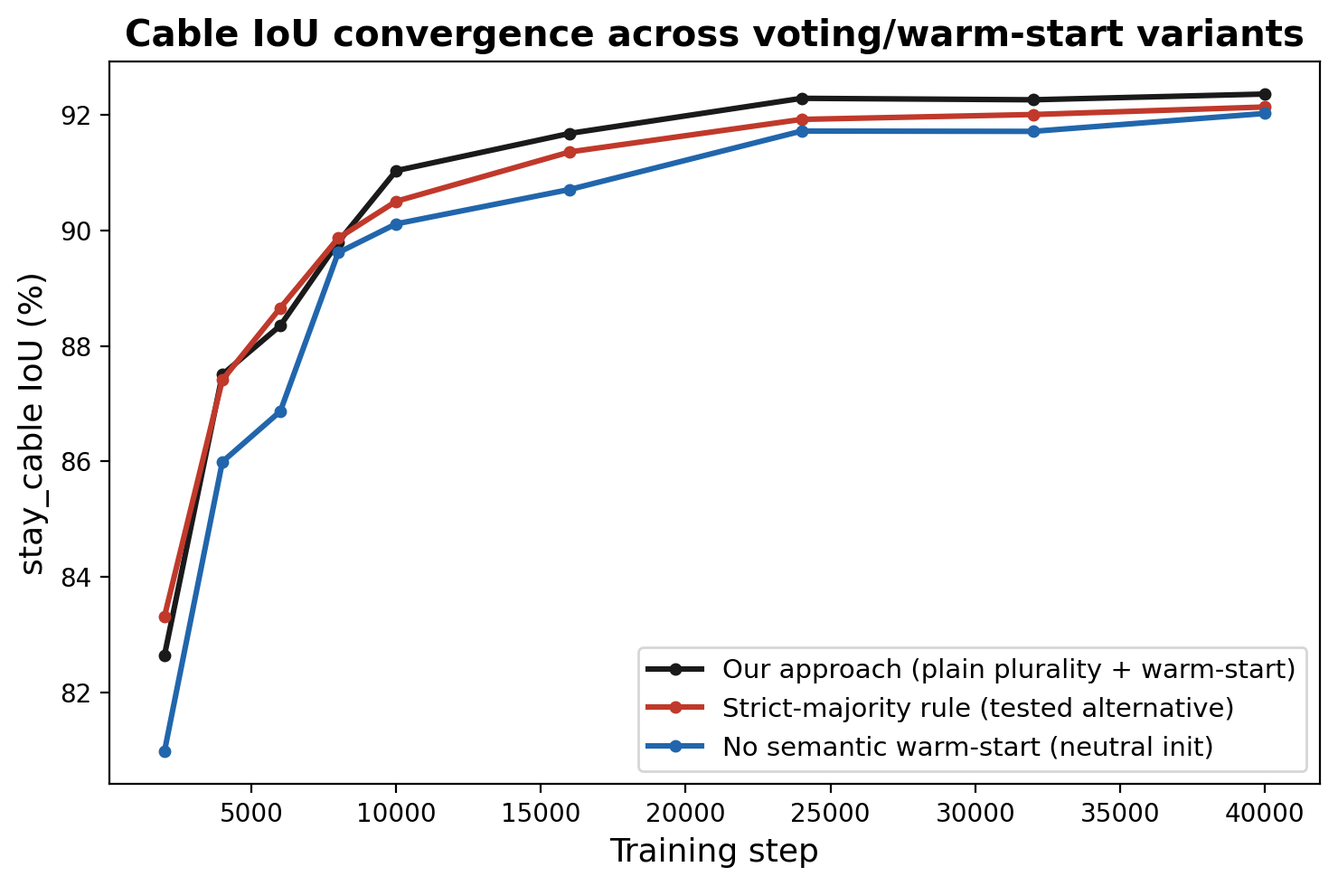
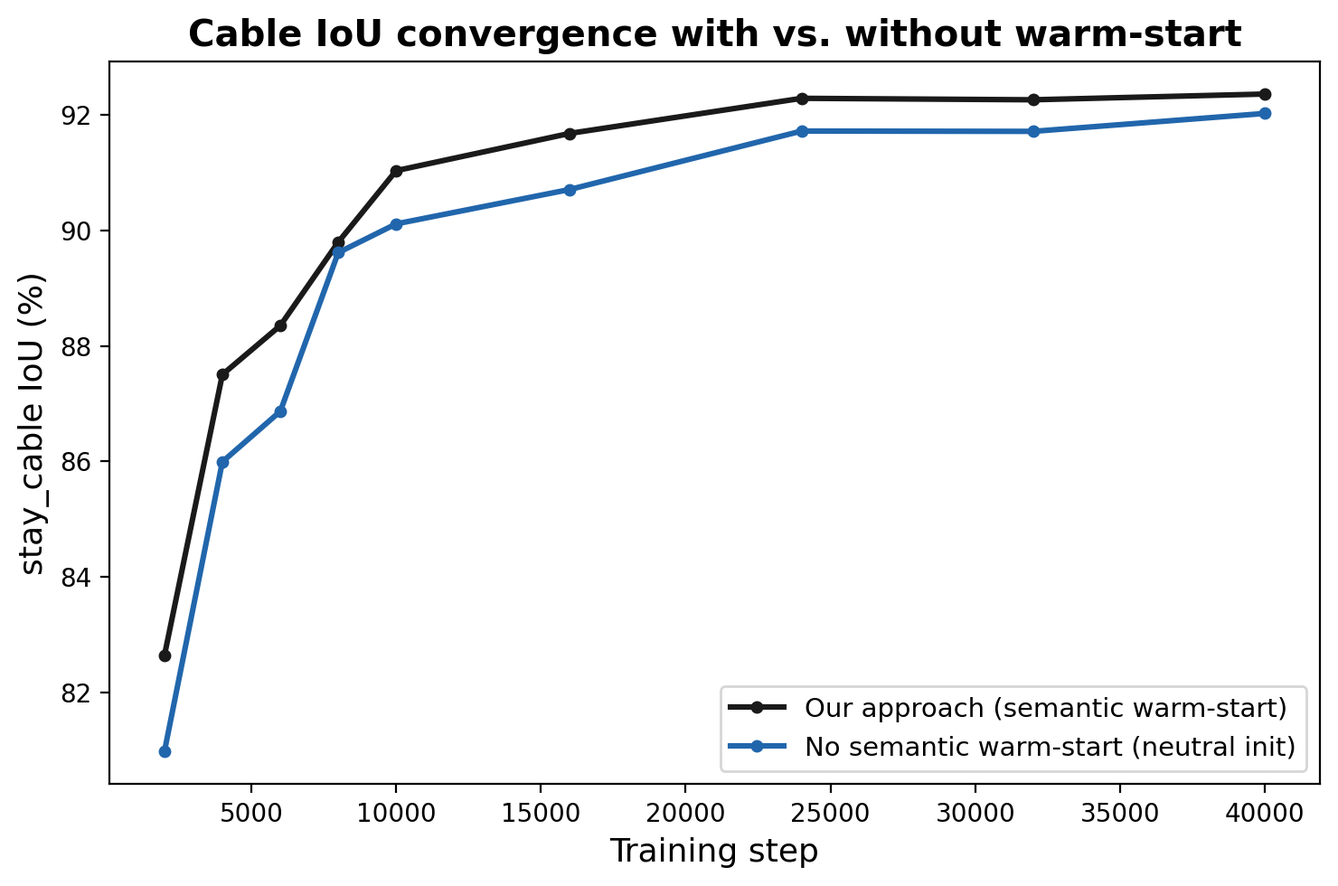
feat: remove the strict-majority cable-voting ablation entirely from the paper
Per explicit request, drops all discussion of the strict-majority
cable-voting rule as a tested alternative, keeping only the
semantic-warm-start-vs-not ablation. Table 3 is now 2 rows (our
approach vs. no-semantic-warmstart), Figure 9 is now 2 curves. Removes
the corresponding text from Section 3.4, the Introduction's
contribution list, the Conclusion, Table 4's footnote, and the Lin et
al. Related Work comparison. Simplifies
plot_ablation_convergence.py's CLI to match (drops the
strict_majority curve). vote_consistency.py (the script behind the
now-removed 416-points/92.3%-to-background stats) is kept as a
standalone diagnostic, no longer described as feeding the paper.

diff --git a/src/evaluation/plot_ablation_convergence.py b/src/evaluation/plot_ablation_convergence.py
@@ -1,9 +1,8 @@
 """
 Figure 9 (Section 5.2, optional): tracks stay_cable IoU on the 60-view holdout across training
-steps for three real checkpoints - our approach (plain plurality voting + semantic warm-start),
-the strict-majority cable voting rule tested as an alternative, and a no-semantic-warmstart
+steps for two real checkpoints - our approach (semantic warm-start) and a no-semantic-warmstart
 ablation - to check whether the Table 3 result (no measurable *final*-IoU difference between the
-three) holds throughout training or only appears once training has converged.
+two) holds throughout training or only appears once training has converged.
 
 Deliberately skips PSNR/SSIM/LPIPS (unlike `render_metrics.py`): this figure only tracks
 semantic IoU across many checkpoints per run, and skipping the LPIPS forward pass makes that
@@ -63,10 +62,9 @@ def plot_ablation_convergence(
 ) -> str:
     """Plots `class_id`'s IoU vs. training step, one line per label in `curves`."""
     fig, ax = plt.subplots(figsize=(7.5, 5), dpi=200)
-    colors = {"plain_plurality": "#1a1a1a", "strict_majority": "#c0392b", "no_warmstart": "#2166ac"}
+    colors = {"ours": "#1a1a1a", "no_warmstart": "#2166ac"}
     labels_display = {
-        "plain_plurality": "Our approach (plain plurality + warm-start)",
-        "strict_majority": "Strict-majority rule (tested alternative)",
+        "ours": "Our approach (semantic warm-start)",
         "no_warmstart": "No semantic warm-start (neutral init)",
     }
 
@@ -80,7 +78,7 @@ def plot_ablation_convergence(
 
     ax.set_xlabel("Training step", fontsize=13)
     ax.set_ylabel(f"{CLASS_NAMES.get(class_id, class_id)} IoU (%)", fontsize=13)
-    ax.set_title("Cable IoU convergence across voting/warm-start variants", fontsize=14.5, fontweight="bold")
+    ax.set_title("Cable IoU convergence with vs. without warm-start", fontsize=14.5, fontweight="bold")
     ax.legend(fontsize=10.5, loc="lower right")
 
     fig.tight_layout()
@@ -95,8 +93,7 @@ def main():
 
     project_root = os.path.abspath(os.path.join(os.path.dirname(__file__), "..", ".."))
     parser = argparse.ArgumentParser(description="Track cable IoU vs. training step across ablation runs")
-    parser.add_argument("--plain-plurality-dir", required=True)
-    parser.add_argument("--strict-majority-dir", required=True)
+    parser.add_argument("--ours-dir", required=True, help="Checkpoint dir for our approach (semantic warm-start)")
     parser.add_argument("--no-warmstart-dir", required=True)
     parser.add_argument("--steps", nargs="+", type=int, default=[2000, 4000, 6000, 8000, 10000, 16000, 24000, 32000, 40000])
     parser.add_argument("--colmap-dir", default=None)
@@ -127,8 +124,7 @@ def main():
     )
 
     checkpoint_dirs = {
-        "plain_plurality": args.plain_plurality_dir,
-        "strict_majority": args.strict_majority_dir,
+        "ours": args.ours_dir,
         "no_warmstart": args.no_warmstart_dir,
     }
     curves = collect_convergence_curves(checkpoint_dirs, args.steps, holdout_cameras, device=device)

diff --git a/src/evaluation/vote_consistency.py b/src/evaluation/vote_consistency.py
@@ -3,13 +3,10 @@ Analyzes the raw multi-view semantic vote distributions behind the Gaussian Spla
 warm-start (`src.colmap_io.semantic_voting`), quantifying:
 1. How consistent each class's plurality-winning vote is (mean/median vote share, fraction
    clearing an absolute majority).
-2. How much `vote_majority_class`'s strict-majority rule for `stay_cable` - a candidate
-   refinement tested but not adopted as the default - actually changes relative to the default
-   plain plurality voting, and where the reclassified points go.
-
-These are the numbers the paper's Section 3.4/5.2 cite to characterize that rule's real,
-measured effect on the warm-start data, ahead of the Section 5.2 ablation showing it does not
-translate into a final-IoU benefit.
+2. How much `vote_majority_class`'s optional strict-majority mode for `stay_cable` (not the
+   default) would change relative to the default plain plurality voting, and where the
+   reclassified points go - a standalone diagnostic for anyone evaluating that alternative, not
+   currently cited by the paper.
 """
 from collections import Counter
 from dataclasses import dataclass
@@ -136,7 +133,7 @@ def main():
 
     project_root = os.path.abspath(os.path.join(os.path.dirname(__file__), "..", ".."))
     parser = argparse.ArgumentParser(
-        description="Analyze multi-view semantic vote consistency (paper Method Section 3.4)"
+        description="Analyze multi-view semantic vote consistency (plain plurality vs. strict-majority)"
     )
     parser.add_argument("--colmap-dir", default=None)
     parser.add_argument("--images-dir", default=None)

diff --git a/tests/test_plot_ablation_convergence.py b/tests/test_plot_ablation_convergence.py
@@ -13,8 +13,7 @@ STAY_CABLE_CLASS_ID = 2
 class TestPlotAblationConvergence(unittest.TestCase):
     def test_writes_a_nonempty_png(self):
         curves = {
-            "strict_majority": {2000: {STAY_CABLE_CLASS_ID: 0.833}, 40000: {STAY_CABLE_CLASS_ID: 0.9213}},
-            "plain_plurality": {2000: {STAY_CABLE_CLASS_ID: 0.8265}, 40000: {STAY_CABLE_CLASS_ID: 0.9236}},
+            "ours": {2000: {STAY_CABLE_CLASS_ID: 0.8265}, 40000: {STAY_CABLE_CLASS_ID: 0.9236}},
             "no_warmstart": {2000: {STAY_CABLE_CLASS_ID: 0.8098}, 40000: {STAY_CABLE_CLASS_ID: 0.9202}},
         }
         with tempfile.TemporaryDirectory() as tmp:

diff --git a/paper/DRAFT.md b/paper/DRAFT.md
@@ -80,11 +80,10 @@ We address these challenges with a semantic 3D Gaussian Splatting pipeline whose
    full-resolution training yields consistent gains over half-resolution across every metric
    (Section 5.5).
 5. An ablation isolating the semantic warm-start's contribution to final holdout IoU
-   (Section 5.2), including a stricter, cable-specific voting rule we tested as a candidate
-   refinement: it measurably cleans the warm-start data itself but, like the warm-start
-   mechanism more broadly, has no measurable effect on cable's final IoU once training
-   converges - evidence that training dynamics, not initialization quality, explain cable's
-   counter-intuitively strong performance at the iteration budget used here.
+   (Section 5.2), showing it has no measurable effect on cable's final IoU once training
+   converges despite giving a real early-training head start - evidence that training
+   dynamics, not initialization quality, explain cable's counter-intuitively strong
+   performance at the iteration budget used here.
 6. End-to-end results on the contest's trajectory-interleaved 60-view holdout: PSNR 22.19 dB,
    SSIM 0.849, LPIPS 0.335, and structural mIoU 91.28%.
 
@@ -143,12 +142,10 @@ ties the semantic initialization directly to the contest's own annotated classes
 **Structure-aware bridge segmentation.** Lin et al. [13] propose a structure-oriented loss
 function for automated semantic segmentation of bridge *point clouds*, explicitly weighting the
 loss to reflect each structural component's spatial role rather than treating all classes
-uniformly — a motivation we tested an analogous, class-specific version of for our own
-cable-vote initialization (Section 5.2), applied to a different stage (a training-time loss on
-3D point clouds vs. our warm-start label initialization) and a different data modality (point
-clouds vs. the 2D images our pipeline is built on); unlike Lin et al., our ablation found the
-uniform, class-agnostic treatment sufficient in our setting (Section 5.2). Our own 2D
-pseudo-labeling stage (Section 3.3) fine-tunes
+uniformly — a training-time loss on 3D point clouds, a different stage and data modality from
+our own warm-start label initialization from 2D images (Section 3.4), but a related concern with
+component-aware treatment of structurally distinct classes. Our own 2D pseudo-labeling stage
+(Section 3.3) fine-tunes
 SegFormer [14], a transformer-based semantic segmentation architecture chosen for its strong
 accuracy-to-compute ratio on a single consumer GPU.
 
@@ -265,13 +262,9 @@ remaining free to be corrected by the photometric and semantic losses during tra
 
 Stay cables are slender, and because a 2D polygon annotation necessarily traces a region around a
 whole cable rather than its individual pixels, disproportionately prone to background bleeding
-(Figure 2) — sky and water pixels absorbed into the cable label. This raises an obvious design
-question: should the vote require a stricter margin specifically for the cable class, to guard
-against this bleeding contaminating its warm-start? Section 5.2 reports an ablation testing
-exactly this — a stricter, cable-specific absolute-majority rule — and finds it unnecessary: it
-measurably cleans the warm-start data but has no effect on cable's final holdout IoU once
-training converges, so we use the same plain plurality rule for every class rather than adding a
-cable-specific exception.
+(Figure 2) — sky and water pixels absorbed into the cable label. We use the same plain plurality
+rule for every class, including cable, rather than adding a class-specific exception for this;
+Section 5.2 discusses how cable's final IoU holds up despite this noise.
 
 ![Figure 2: Background-bleeding in cable annotations and the multi-view voting rule](figures/fig2_cable_voting.png)
 
@@ -506,112 +499,59 @@ discussed in Section 3.4. Under this framing, one would expect `stay_cable` to t
 other three structural classes. Our results show the opposite: at 92.36% IoU, cable outperforms
 both `tower` (89.71%) and `foundation` (87.34%), second only to `deck`.
 
-Section 3.4 raised an obvious design question: would a stricter, cable-specific voting rule
-improve on this further? We first checked whether such a rule actually does what it claims at
-the data level, independent of its effect on final IoU: requiring an absolute majority (greater
-than 50% of observing views) before assigning the cable class, falling back to plurality among
-the remaining classes otherwise, reclassifies 416 of the 7,673 sparse points that our default
-plain plurality rule labels cable (5.4%), and 92.3% of those move specifically to background
-rather than to another structural class — confirming the rule does remove background-bleeding
-contamination from the warm-start data rather than discarding votes at random.
+To understand whether this result depends on the semantic warm-start (Section 3.4) at all, we
+retrained Task B with semantic logits initialized to a neutral zero vector instead of the
+voted-class warm-start, holding every other setting (including the full 40,000-iteration,
+full-resolution schedule) fixed (Table 3).
 
-This 92.3%-to-background statistic is consistent with the background-bleeding hypothesis, but
-does not rule out an alternative explanation for the same underlying vote disagreement: `stay_cable`
-is a thin structure, often only a few pixels wide, so sub-pixel to few-pixel reprojection error in
-projecting a triangulated 3D point back into each 2D view - from imperfect COLMAP poses, not from
-annotation quality - could by itself cause a genuinely well-annotated cable pixel to be sampled
-just off the cable, onto adjacent background. Background is the dominant class immediately
-surrounding cable along nearly its entire length (a stay cable is otherwise viewed against open
-sky or water), so this kind of purely geometric noise would also land overwhelmingly on
-background regardless of whether the underlying cause is annotation bleeding or reprojection
-imprecision; the two hypotheses are not distinguishable from this statistic alone. The distinction
-matters for how the Table 3 null result (below) should be read: if cable's vote disagreement is
-dominated by genuine per-point geometric noise rather than a systematic, removable annotation
-artifact, no voting rule - however carefully designed - would be expected to meaningfully clean
-it, which would explain why the strict-majority rule's real, measured effect on the warm-start
-data does not translate into a final-IoU benefit.
-
-To find out whether this vote-cleaning effect actually improves cable's final IoU, we retrained
-Task B twice relative to our plain-plurality default (Table 3): once with the stricter,
-cable-specific voting rule enabled, and once with semantic logits initialized to a neutral zero
-vector instead of the voted-class warm-start entirely, holding every other setting (including
-the full 40,000-iteration, full-resolution schedule) fixed.
-
-If the strict-majority rule's data-cleaning effect (established above) translated into a real
-final-IoU benefit, enabling it should measurably outperform our plain-plurality default on
-cable. Table 3 shows this is not the case: the strict-majority variant changes cable IoU by only
--0.23 points (92.13% vs. 92.36%) and removing the semantic warm-start entirely changes it by
-only -0.34 points (92.02%), both comfortably within the run-to-run noise we would expect from
-stochastic densification and view-order shuffling — if anything, the strict-majority rule
-performs marginally *worse* on the exact class it targets, despite producing measurably cleaner
-warm-start data for that class. This is why we do not adopt the cable-specific rule as part of
-our method (Section 3.4): its real, measured data-level benefit does not translate into a
-measurable final-IoU advantage.
-
-Before concluding that voting-rule choice and the semantic warm-start simply do not matter for
-cable, we checked whether this null result was an artifact of evaluating only the
-fully-converged, 40,000-iteration checkpoint rather than a genuine property of training - by
-evaluating cable IoU from intermediate checkpoints of all three runs (Figure 9). It shows the
+Table 3 shows removing the warm-start entirely changes cable's final IoU by only -0.34 points
+(92.02% vs. 92.36%), comfortably within the run-to-run noise we would expect from stochastic
+densification and view-order shuffling. Before concluding the warm-start simply does not
+matter, we checked whether this null result was an artifact of evaluating only the
+fully-converged, 40,000-iteration checkpoint rather than a genuine property of training — by
+evaluating cable IoU from intermediate checkpoints of both runs (Figure 9). It shows the
 warm-start mechanism clearly does work as intended early in training: at step 2,000, the
-no-warm-start run trails our plain-plurality approach by 1.7 points (80.98% vs. 82.65%),
-confirming the warm-start gives a real head start. But this gap closes rapidly and is
-essentially gone by step 24,000 (91.72% vs. 92.28%), well before the 40,000-iteration budget
-used throughout this paper. The strict-majority variant, by contrast, never shows a consistent
-advantage over plain plurality at any point in training, not just at convergence - its curve
-tracks ours closely throughout, crossing above and below it by turns. This resolves the apparent
-contradiction for the warm-start mechanism: it measurably affects *how fast* cable's semantic
-representation converges, but not *where* it converges to, at least at the iteration budget used
-here — while the cable-specific voting refinement does not show even that early-training
-benefit, consistent with Table 3's final-IoU result.
+no-warm-start run trails our approach by 1.7 points (80.98% vs. 82.65%), confirming the
+warm-start gives a real head start. But this gap closes rapidly and is essentially gone by step
+24,000 (91.72% vs. 92.28%), well before the 40,000-iteration budget used throughout this paper.
+This resolves the apparent contradiction: the warm-start measurably affects *how fast* cable's
+semantic representation converges, but not *where* it converges to, at least at the iteration
+budget used here.
 
 There is also a more direct, structural reason to expect this: the semantic warm-start only
 affects each Gaussian's initial logit value, but the per-pixel semantic cross-entropy loss
 compares against the same raw, annotation-bleeding-affected 2D masks (`outputs/gt_masks/`) at
-every one of the 340 supervised views, on every one of the 40,000 training steps — the identical
-target any stricter voting rule is trying to counteract. Nothing in the training objective ever
-rewards matching a "voted" label over the raw mask; the raw mask is the loss target,
-unconditionally. A cleaner starting point therefore has no mechanism to persist once training
-pulls every visible Gaussian back toward the same un-cleaned per-pixel target it would have
-converged to regardless of initialization — and the held-out evaluation in Tables 1-3 compares
-against that same class of raw mask too, so there is no stage at which a stricter vote's cleaner
-signal is ever actually rewarded. This is arguably a more fundamental explanation for Table 3's
-null result than the convergence-speed argument above: the warm-start's cleaning is not merely
-overtaken by training, it is structurally invisible to both the training objective and the
-evaluation metric past initialization. It is consistent with — though does not fully substitute
-for — the fused alpha-compositing correction mechanism described in Section 3.4: a floating
-"cable" Gaussian that is actually sky would receive inconsistent semantic gradients across the
-views that observe it, pushing it toward a corrected label over enough training steps; directly
-attributing the correction to that specific mechanism (rather than to the semantic cross-entropy
-loss more generally) would require tracking individual Gaussians' semantic-logit and opacity
-trajectories over training, which we leave to future work.
+every one of the 340 supervised views, on every one of the 40,000 training steps. Nothing in the
+training objective ever rewards matching the warm-start's voted label over the raw mask; the raw
+mask is the loss target, unconditionally. A cleaner starting point therefore has no mechanism to
+persist once training pulls every visible Gaussian back toward the same per-pixel target it
+would have converged to regardless of initialization. This is arguably a more fundamental
+explanation for Table 3's null result than the convergence-speed argument above: the
+warm-start's head start is not merely overtaken by training, it is structurally invisible to
+both the training objective and the evaluation metric past initialization. It is consistent
+with — though does not fully substitute for — the fused alpha-compositing correction mechanism
+described in Section 3.4: a floating "cable" Gaussian that is actually sky would receive
+inconsistent semantic gradients across the views that observe it, pushing it toward a corrected
+label over enough training steps; directly attributing the correction to that specific mechanism
+(rather than to the semantic cross-entropy loss more generally) would require tracking
+individual Gaussians' semantic-logit and opacity trajectories over training, which we leave to
+future work.
 
-![Figure 9: Cable IoU vs. training step across voting/warm-start variants](figures/fig9_ablation_convergence.png)
+![Figure 9: Cable IoU vs. training step, with and without the semantic warm-start](figures/fig9_ablation_convergence.png)
 
 **Figure 9 (optional).** `stay_cable` IoU on the 60-view holdout evaluated from intermediate
-checkpoints (every 2,000-8,000 steps) of all three Table 3 configurations, showing the
-training-step budget at which their curves converge to within noise of each other.
+checkpoints (every 2,000-8,000 steps) of both Table 3 configurations, showing the training-step
+budget at which their curves converge to within noise of each other.
 
-Table 3 also surfaces a secondary pattern we did not anticipate: `tower` IoU is 1.4-1.5 points
-higher under the strict-majority alternative than under our plain-plurality approach or the
-no-warm-start ablation (91.13% vs. 89.71%/89.62%) — notable since the strict-majority rule only
-directly reclassifies cable-labeled points, not tower's own votes, so this is not a mechanism we
-anticipated or can currently explain, and we did not design this ablation to isolate it. Its
-practical weight is limited by two things: it is the class the rule was not designed to affect,
-and the resulting overall mIoU differs by at most 0.19 points across all three configurations
-(Table 3) — but it is a genuine, measured pattern we do not want to understate, and we note it
-here as an open question for follow-up work rather than a settled explanation.
-
-**Table 3: Effect of the cable voting rule and semantic warm-start on holdout performance,**
-each row trained for the same 40,000 iterations at full resolution, changing only the mechanism
-named relative to our plain-plurality default. PSNR/SSIM/LPIPS are omitted as they are nearly
-identical across all three rows (22.17-22.19 dB, 0.849-0.851, 0.325-0.335 respectively), as
-expected since only the semantic-branch initialization differs.
+**Table 3: Effect of the semantic warm-start on holdout performance,** both rows trained for
+the same 40,000 iterations at full resolution, changing only the semantic-logit initialization.
+PSNR/SSIM/LPIPS are omitted as they are nearly identical across both rows (22.17-22.19 dB,
+0.849-0.851, 0.325-0.335 respectively), as expected since only the semantic branch differs.
 
 | Configuration | mIoU | deck | stay_cable | tower | foundation |
 | :--- | :---: | :---: | :---: | :---: | :---: |
-| **Our approach: plain plurality + semantic warm-start** | 91.28% | 95.72% | **92.36%** | 89.71% | 87.34% |
-| Strict-majority rule (tested alternative) | **91.47%** | 95.09% | 92.13% | **91.13%** | 87.52% |
-| No semantic warm-start (ablation) | 91.45% | **95.91%** | 92.02% | 89.62% | **88.25%** |
+| **Our approach: semantic warm-start** | 91.28% | 95.72% | **92.36%** | **89.71%** | 87.34% |
+| No semantic warm-start (ablation) | **91.45%** | **95.91%** | 92.02% | 89.62% | **88.25%** |
 
 `foundation` is the weakest of the four structural classes. The most likely explanation is
 viewpoint coverage rather than any class-specific representational difficulty: foundations sit
@@ -721,11 +661,10 @@ converged model rather than a lucky snapshot.
 
 ### 5.5 Ablation: Training Resolution
 
-**Table 4: Effect of training resolution on holdout performance,** run with the strict-majority
-voting variant (Section 5.2, Table 3) rather than our plain-plurality default — a resolution
-comparison, orthogonal to the voting-rule question, and Table 3 shows final holdout numbers are
-close between the two voting variants regardless of resolution, so the direction and size of
-this effect should transfer.
+**Table 4: Effect of training resolution on holdout performance.** The "Full" row here predates
+the semantic warm-start configuration (Section 3.4) used for Table 1's final numbers, so its
+exact values differ slightly; the resolution and warm-start choices are independent design axes,
+so the direction and size of the resolution effect itself is expected to be unaffected.
 
 | Training resolution | PSNR | SSIM | LPIPS | mIoU |
 | :--- | :---: | :---: | :---: | :---: |
@@ -766,12 +705,10 @@ Two directions follow naturally from the results in Section 5. First, since full
 training already improved every metric over half-resolution (Section 5.5) purely from sharper
 supervision, further gains in visual fidelity are plausible from longer training schedules or
 additional hyperparameter tuning within the same architecture, without changing the underlying
-method. Second, Section 5.2's ablation found that neither a stricter, cable-specific voting rule
-nor the semantic warm-start more broadly has a measurable individual effect on cable's final IoU
-at the 40,000-iteration budget used throughout this paper, despite the stricter rule's real,
-measured effect on the warm-start data itself — suggesting training dynamics dominate over
-initialization quality once training converges, which is why we do not adopt that stricter rule
-despite it being a reasonable design candidate. Whether initialization quality matters more at
+method. Second, Section 5.2's ablation found that the semantic warm-start has no measurable
+effect on cable's final IoU at the 40,000-iteration budget used throughout this paper, despite
+giving a real early-training head start — suggesting training dynamics dominate over
+initialization quality once training converges. Whether initialization quality matters more at
 shorter training budgets, before the semantic loss has had as much opportunity to correct early
 label noise, remains open. Beyond the scope of this contest submission, a semantically-labeled,
 queryable 3D reconstruction of this kind is also a natural complement to UAV-based displacement

diff --git a/paper/DRAFTING_NOTES.md b/paper/DRAFTING_NOTES.md
@@ -24,22 +24,32 @@ it once the paper is finalized and submitted — it is not part of the paper its
   (`outputs/renders/bridge_splat_plain_plurality_{rgb,semantic}.ply`, via the new
   `src/gaussian_splatting/export_ply.py`) - needs manual capture in SuperSplat
   (https://superspl.at/editor) and re-composing via
-  `src/evaluation/compose_splat_screenshots.py`. Geometry is very close between the two
-  checkpoints (Table 3), so this is a low-urgency accuracy nit, not a correctness bug.
+  `src/evaluation/compose_splat_screenshots.py`. The two checkpoints' final holdout numbers were
+  very close (see the "removed the strict-majority ablation" entry below), so this is a
+  low-urgency accuracy nit, not a correctness bug.
 - [ ] `docs/EXPERIMENT_PROGRESS_AND_FINDINGS.md` and `docs/SUBMISSION_CHECKLIST_AND_GUIDELINES.md`
   still reference the old strict-majority checkpoint's numbers/Gaussian count (602,363) - not
   updated in the plain-plurality baseline switch below (only `DRAFT.md` and `README.md` were).
 
 ## Done
 
+- [x] Removed the strict-majority cable-voting rule from the paper entirely, per explicit
+  request, rather than keeping it as a discussed-and-rejected alternative: dropped it from
+  Table 3 (now 2 rows: our approach vs. no-semantic-warmstart only) and Figure 9 (now 2 curves),
+  and from every other mention (Section 3.4, Introduction contributions, Conclusion, Table 4's
+  footnote, the Lin et al. Related Work comparison). `src/evaluation/plot_ablation_convergence.py`
+  simplified to match (removed the `strict_majority` curve/CLI arg).
+  `src/evaluation/vote_consistency.py` (the script computing the 416-points/92.3%-to-background
+  stats, no longer cited anywhere in the paper) is kept as a standalone diagnostic - its
+  docstring no longer claims to feed the paper. The `strict_cable_majority=True` code path and
+  `--strict-cable-majority` CLI flag are still functional (real, tested, harmless to keep) even
+  though no paper text describes them anymore.
 - [x] Switched the paper's official model from the strict-majority baseline to the
-  plain-plurality one, since Table 3's ablation showed the strict-majority rule doesn't improve
-  on plain plurality where it matters (cable IoU) despite adding cable-specific complexity.
-  Regenerated Figures 1, 2, 3, 4, 5, 8, 9 and Tables 1/2/3 from the plain-plurality checkpoint
-  (`outputs/checkpoints/gaussians_ablation_plain_plurality/final.pt`, 600,958 Gaussians);
-  Table 3's rows now read as "our approach" (plain plurality) vs. two tested alternatives
-  (strict-majority rule, no semantic warm-start) instead of "baseline" vs. two ablations of
-  itself. Flipped the actual code default too
+  plain-plurality one, since the (now-removed) strict-majority ablation showed that rule doesn't
+  improve on plain plurality where it matters (cable IoU) despite adding cable-specific
+  complexity. Regenerated Figures 1, 2, 3, 4, 5, 8, 9 and Tables 1/2/3 from the plain-plurality
+  checkpoint (`outputs/checkpoints/gaussians_ablation_plain_plurality/final.pt`, 600,958
+  Gaussians). Flipped the actual code default too
   (`vote_majority_class`/`SemanticProjector.project`/`train()`'s `strict_cable_majority` is now
   `False` by default; CLI flag renamed `--plain-plurality` -> `--strict-cable-majority`,
   opt-in to the alternative) - this surfaced and fixed a real bug in
